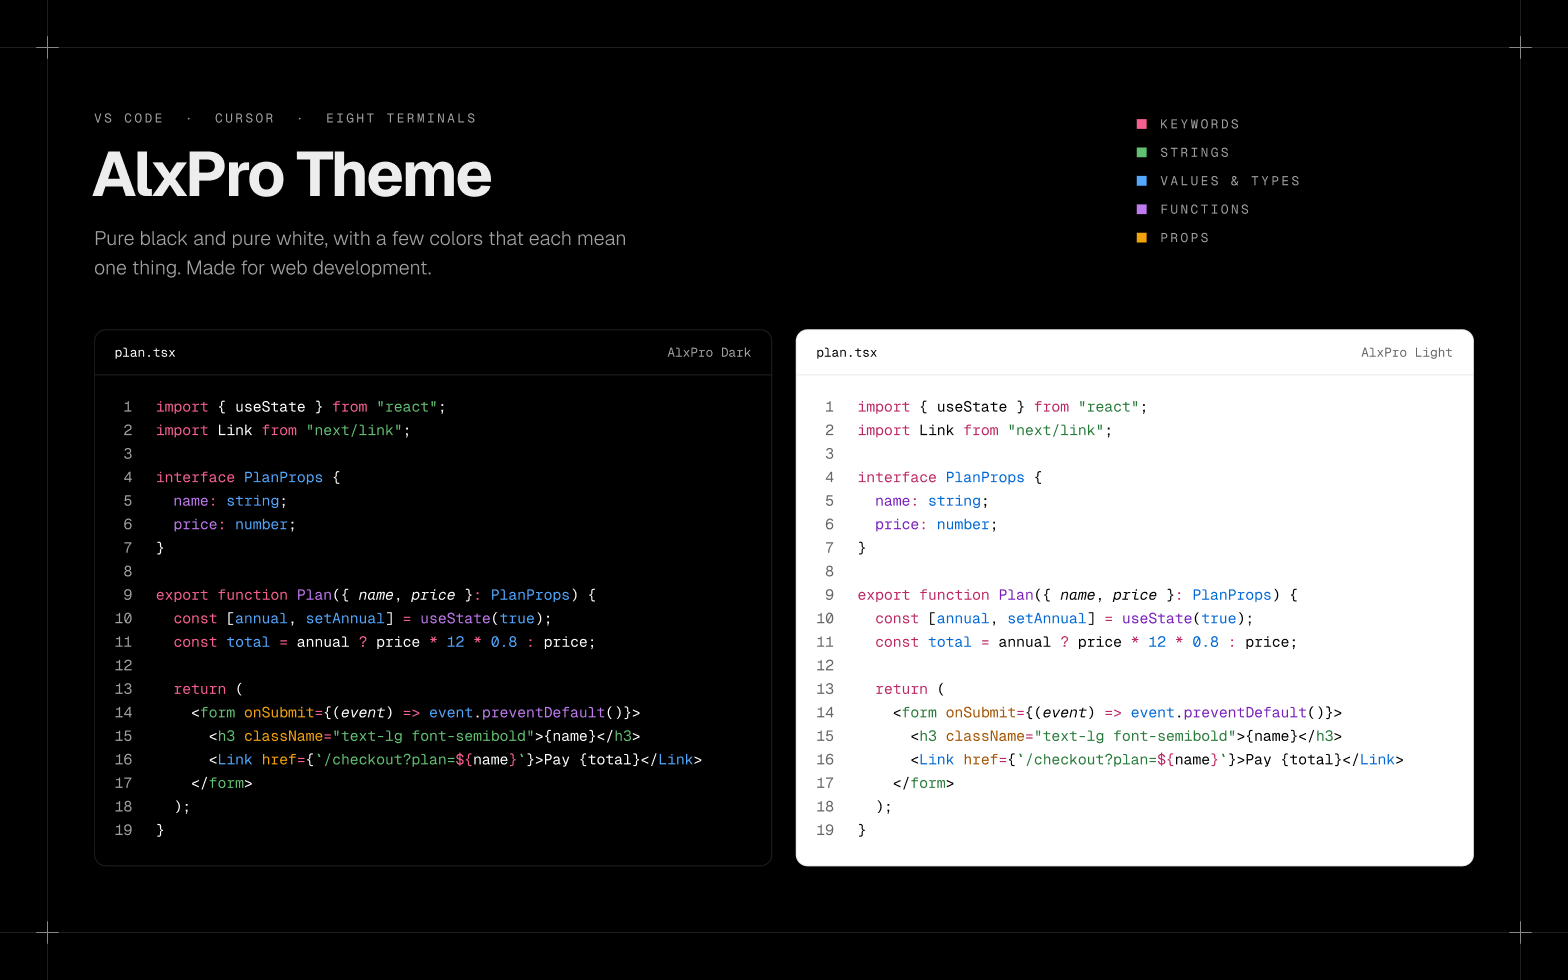
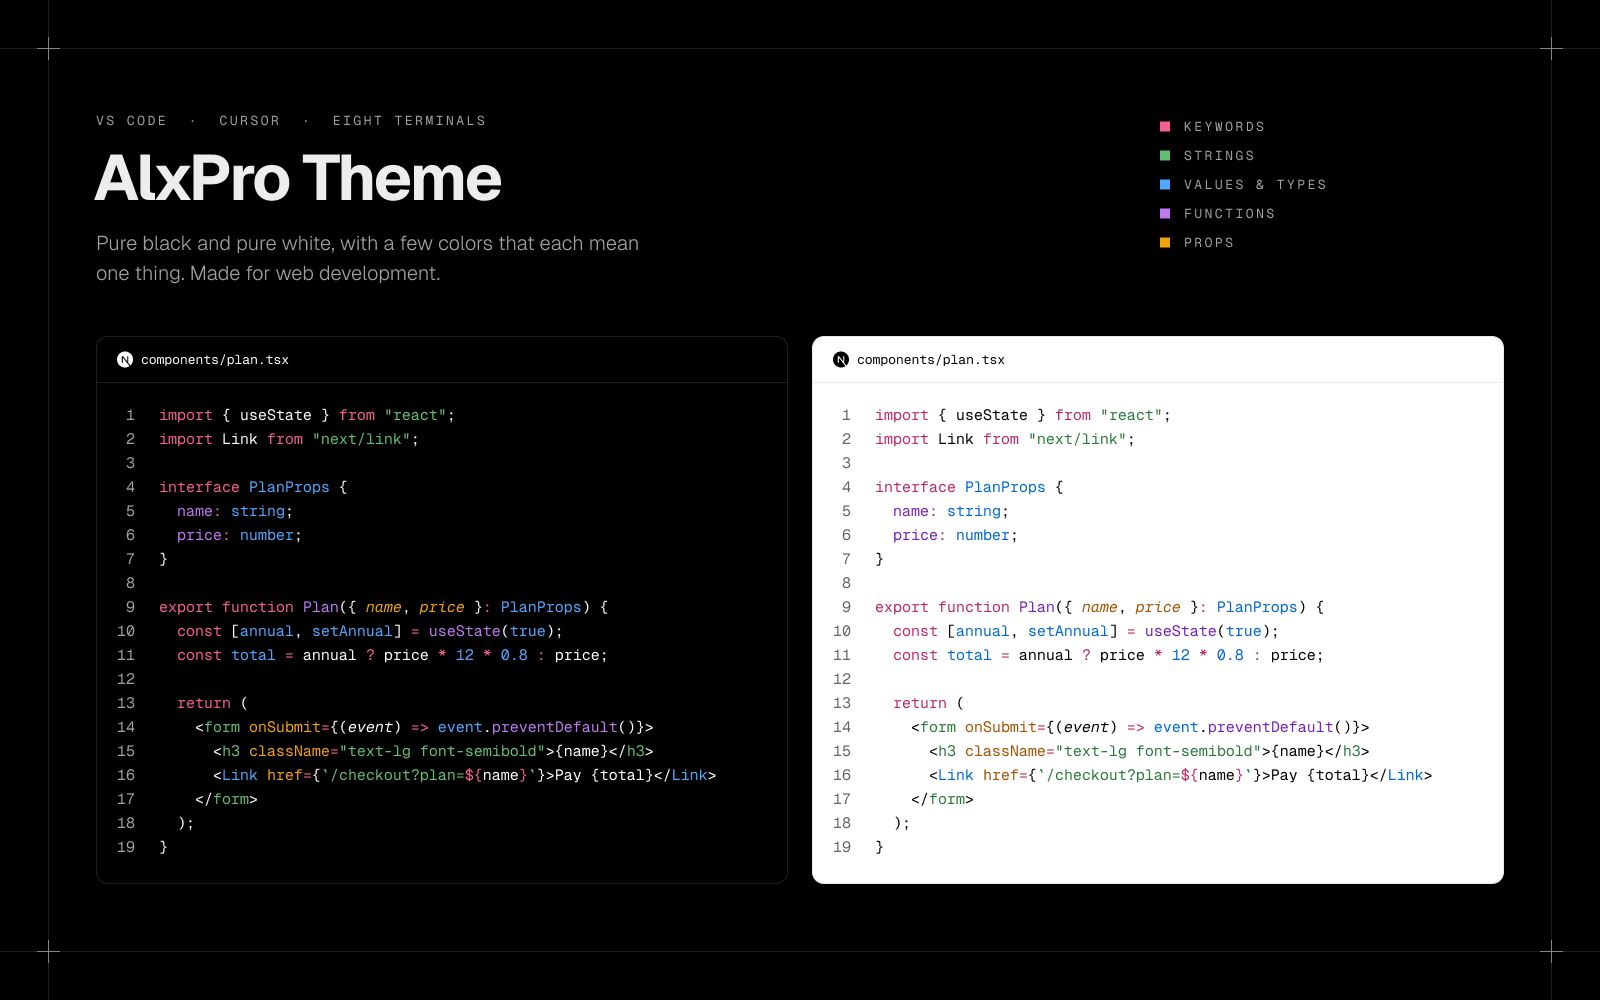
docs(images): new hero and social preview, and the languages alt text
Refs #52

diff --git a/README.md b/README.md
@@ -25,7 +25,7 @@ VS Code, Cursor and eight terminals.
   editor: a CSS unit takes its number's blue, a JSX component is green like an HTML tag,
   and in shell blocks only built-in commands like `cd` are colored.
 
-![CSS with Tailwind, Markdown, JSON and shell commands, in AlxPro Dark and AlxPro Light](images/languages.png)
+![CSS with Tailwind, Markdown, JSON, shell commands, Vue and Svelte, in AlxPro Dark and AlxPro Light](images/languages.png)
 
 ## Install
 
